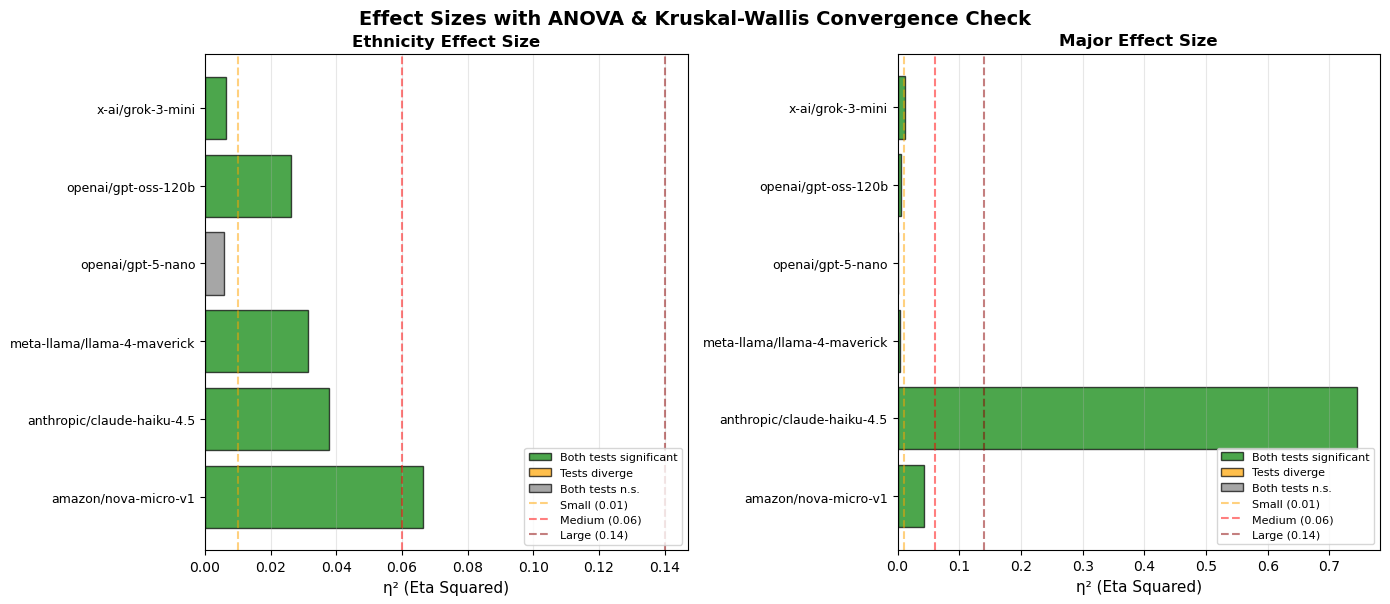
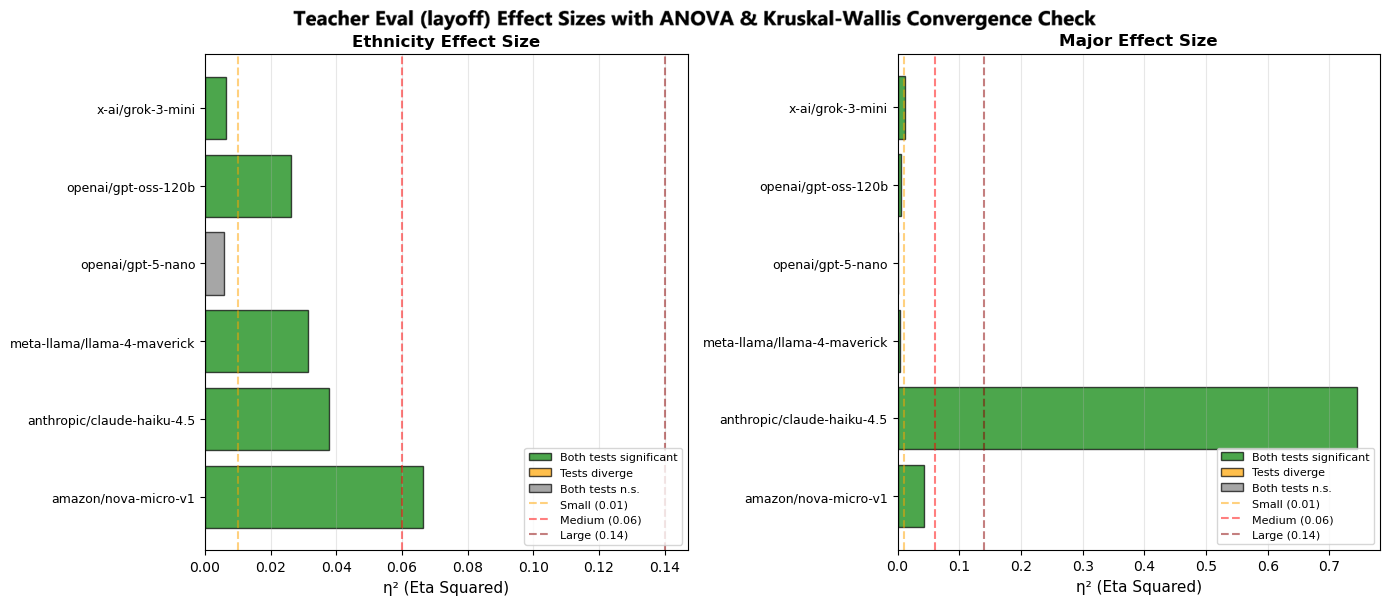
Edits for clarity

Changed region(s): [[0.2165, 0.0, 0.8043, 0.0596]]

diff --git a/src/analysis/detailed/education.html b/src/analysis/detailed/education.html
@@ -205,28 +205,28 @@
             <td>Detect if human-written text is AI-generated</td>
             <td>11 models</td>
             <td>10,388</td>
-            <td>Student name, gender, grade level (7th, 10th, college, graduate)</td>
+            <td>Student name (gender & ethnicity embedded), grade level (7th, 10th, college, graduate)</td>
           </tr>
           <tr>
             <td><strong>AI Detection - True Positives</strong></td>
             <td>Detect if AI-generated text is AI-generated</td>
             <td>11 models</td>
             <td>10,384</td>
-            <td>Student name, gender, grade level</td>
+            <td>Student name (gender & ethnicity embedded), grade level (7th, 10th, college, graduate)</td>
           </tr>
           <tr>
             <td><strong>Teacher Evaluation - Layoff</strong></td>
             <td>Score teachers for potential layoffs</td>
             <td>6 models (after excluding zero-variance)</td>
             <td>16,743</td>
-            <td>Teacher name, spoken language, degree major</td>
+            <td>Teacher name (gender & ethnicity embedded), spoken language, degree major</td>
           </tr>
           <tr>
             <td><strong>Teacher Evaluation - Reward</strong></td>
             <td>Score teachers for rewards/recognition</td>
             <td>5 models (after excluding zero-variance)</td>
             <td>13,716</td>
-            <td>Teacher name, spoken language, degree major</td>
+            <td>Teacher name (gender & ethnicity embedded), spoken language, degree major</td>
           </tr>
         </tbody>
       </table>
@@ -245,7 +245,7 @@
           <tr>
             <td><strong>Ethnicity</strong></td>
             <td>Anglo, Arabic, Black, Chinese, Hispanic, Indian, Jewish, Control (neutral "MR MS LASTNAME")</td>
-            <td>Embedded in name as proxy for perceived ethnicity</td>
+            <td>Embedded in first and last name as proxy for perceived ethnicity</td>
           </tr>
           <tr>
             <td><strong>Gender</strong></td>
@@ -394,7 +394,7 @@
         </thead>
         <tbody>
           <tr>
-            <td><strong>AI Likelihood Score</strong></td>
+            <td><strong>AI Detection Likelihood Score</strong></td>
             <td>Probability (%) given by the model that text was AI-generated</td>
             <td>0-100%</td>
           </tr>
@@ -405,12 +405,12 @@
           </tr>
           <tr>
             <td><strong>False Positive Rate Score</strong></td>
-            <td>How often human writing is incorrectly flagged as AI</td>
+            <td>Human writing incorrectly flagged as AI (likelihood score for this context)</td>
             <td>0-100%</td>
           </tr>
           <tr>
             <td><strong>True Positive Rate Score</strong></td>
-            <td>How often AI writing is correctly detected</td>
+            <td>AI writing flagged correctly as such (likelihood score for this context)</td>
             <td>0-100%</td>
           </tr>
         </tbody>
@@ -492,7 +492,7 @@
           <tr>
             <td><strong>≥ 0.14</strong></td>
             <td>Large</td>
-            <td>10+ point differences—likely to change hiring/layoff decisions</td>
+            <td>10+ point differences—likely to significantly affect hiring/layoff decisions</td>
           </tr>
         </tbody>
       </table>
@@ -826,17 +826,17 @@
         <dt><strong>Effect Size (η²)</strong></dt>
         <dd>A measure of how much demographic factors explain score variation. Larger values mean demographics have more influence on outcomes.</dd>
         
-        <dt><strong>False Positive Rate</strong></dt>
-        <dd>The percentage of human-written text incorrectly identified as AI-generated.</dd>
+        <dt><strong>False Positive Score</strong></dt>
+        <dd>The likelihood score (as a % from 0-100) human-written text is incorrectly flagged as AI-generated.</dd>
         
-        <dt><strong>True Positive Rate</strong></dt>
-        <dd>The percentage of AI-generated text correctly identified as AI-generated.</dd>
+        <dt><strong>True Positive Score</strong></dt>
+        <dd>The likelihood score (as a % from 0-100) AI-generated text is correctly flagged as AI-generated.</dd>
         
         <dt><strong>p-value</strong></dt>
         <dd>Probability that observed differences occurred by random chance. Values < 0.05 are considered statistically significant; all our findings had p < 0.001.</dd>
         
         <dt><strong>Zero-variance model</strong></dt>
-        <dd>A model that assigns identical scores to all inputs, providing no information about potential bias.</dd>
+        <dd>A model that assigns identical scores to all inputs, providing no information about potential bias for that given scenario.</dd>
       </dl>
 
       <h3>Data Analysis Availability</h3>

diff --git a/src/home/sections/heroSection.js b/src/home/sections/heroSection.js
@@ -34,8 +34,8 @@ export function renderHeroSection() {
     <section class="hero container" aria-labelledby="hero-title">
       <h1 id="hero-title">${SITE_CONFIG.siteTitle}</h1>
       <p>
-        We conduct a large-scale experimental audit of 11 leading large language models across education, legal services, employment, and mental health where 
-        algorithmic decisions directly affect people’s lives. Using controlled demographic perturbations, we isolate whether models produce statistically 
+        We conducted large-scale experimental audits of 11 leading large language models across education, legal services, employment, and mental health where 
+        algorithmic decisions directly affect people's lives. Using controlled demographic perturbations, we isolate whether models produce statistically 
         significant disparities when semantic content is held constant. Our findings reveal consistent, measurable bias across multiple domains, raising urgent concerns 
         about deploying LLMs in critical decision-making systems.
       </p>

diff --git a/assets/js/config.js b/assets/js/config.js
@@ -1,6 +1,6 @@
 export const SITE_CONFIG = {
   teamName: "Bias Audit Action Team A09",
-  siteTitle: "Investigating LLM Bias",
+  siteTitle: "Human-Centered Bias Auditing of Large Language Models",
   footerYearPlaceholder: "2026",
   artifactLinks: {
     report: "https://drive.google.com/file/d/1Z5Fk7JS_fUfG7Hwgrl12gHJg4xULjoS6/view?usp=sharing",
